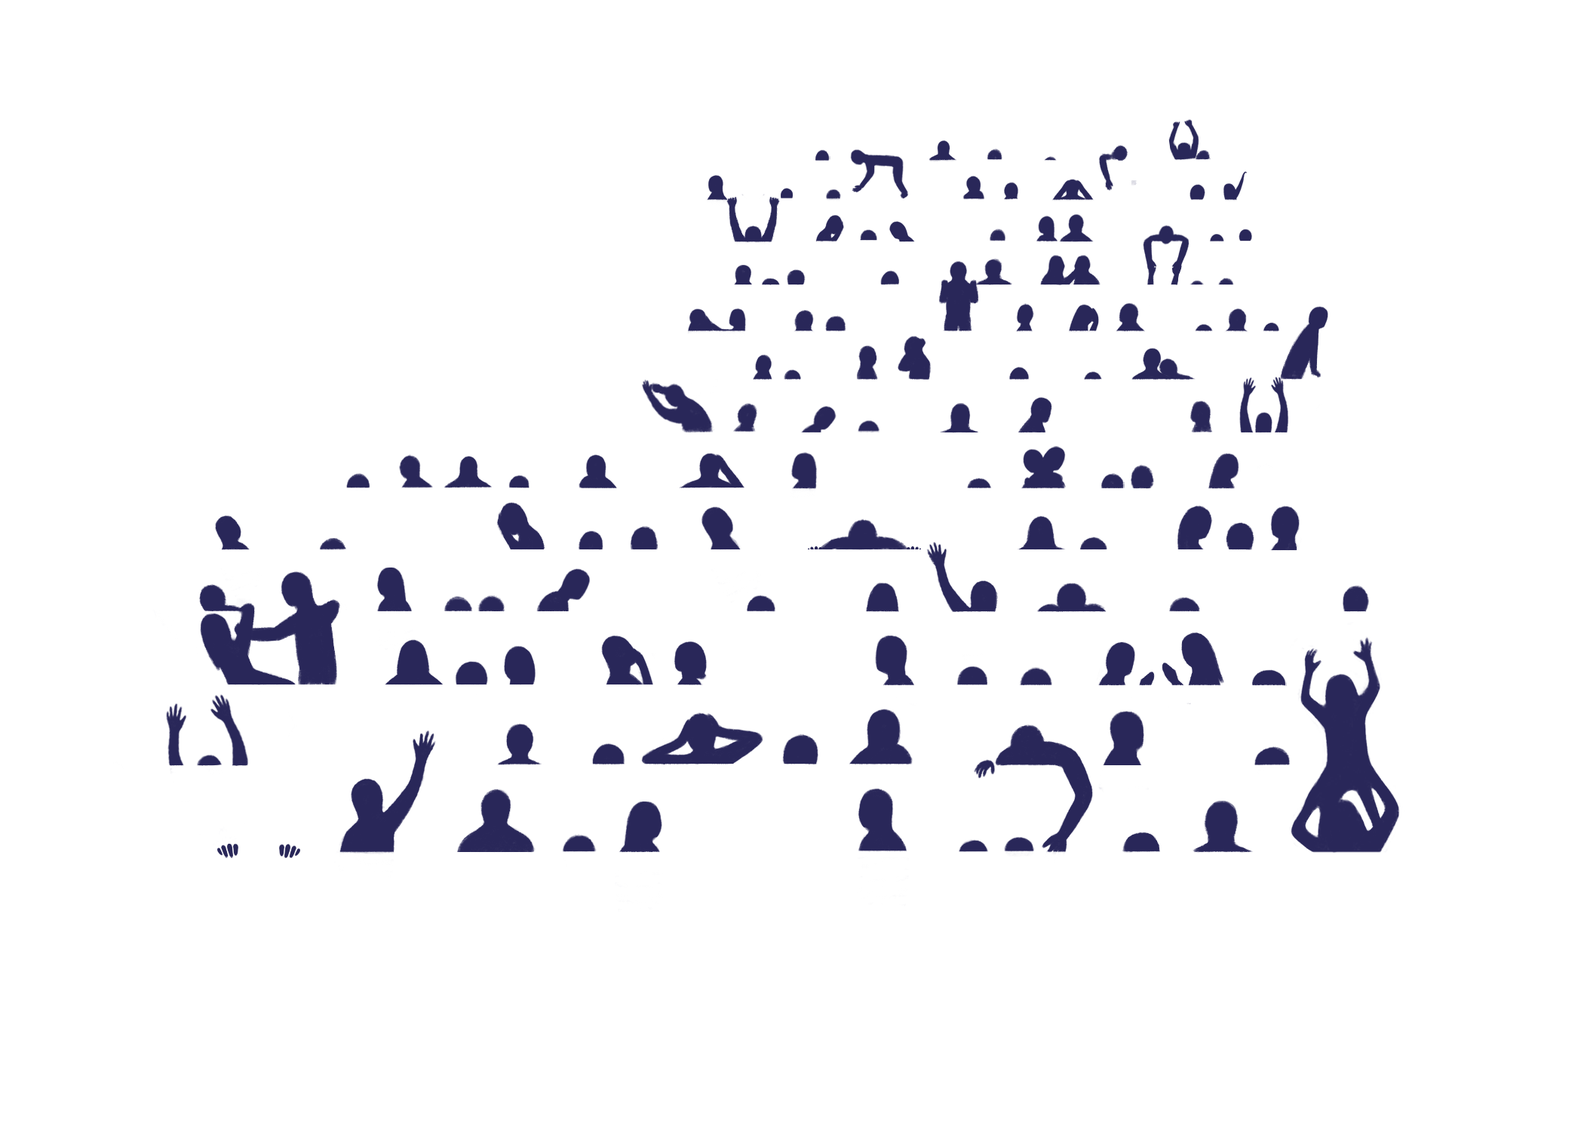
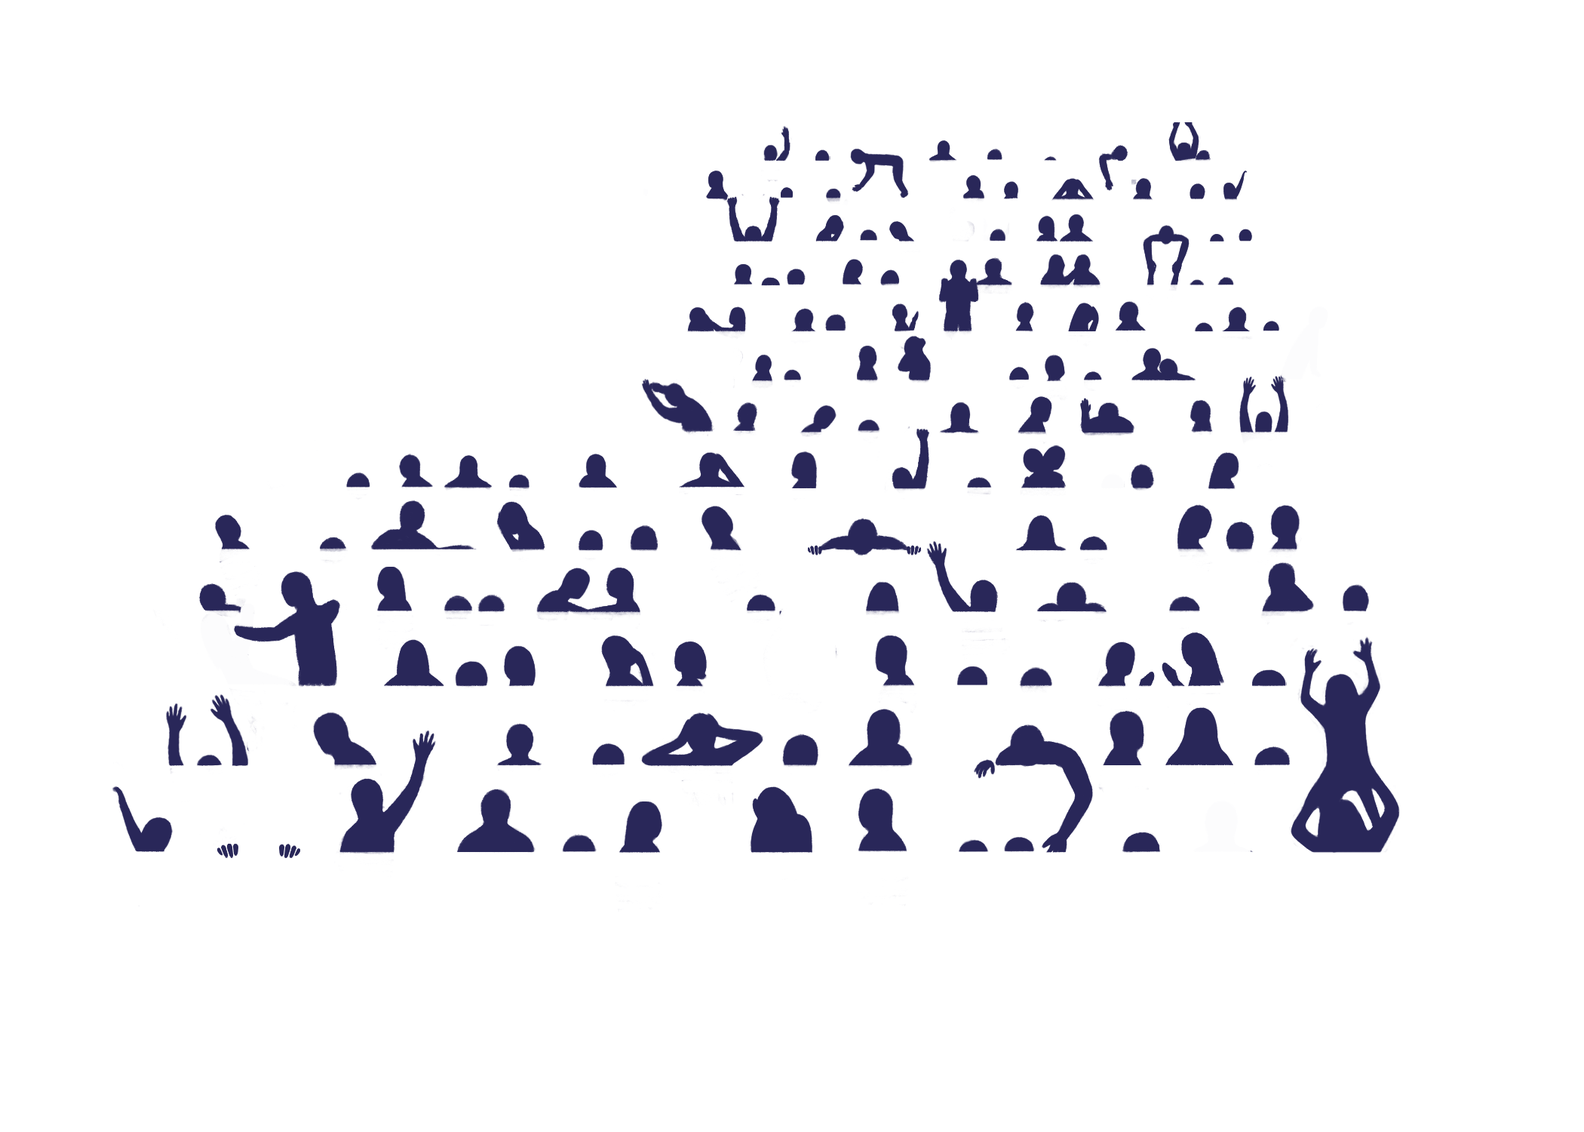
Add Mergensana

diff --git a/src/Fourth.js b/src/Fourth.js
@@ -9,8 +9,23 @@ import KamyarSamimi from "./images/KamyarSamimi.png";
 import FourthArrow from "./images/Fourth-Arrow.png";
 import Row3Person2 from "./images/Row3Person2.png";
 import Row3Person2Red from "./images/Row3Person2-Red.png";
+import Row1Person1 from "./images/Row1Person1.png";
+import Row1Person1Red from "./images/Row1Person1-Red.png";
+import Row3Person1 from "./images/Row3Person1.png";
+import Row3Person1Red from "./images/Row3Person1-Red.png";
+import Row6Person1 from "./images/Row6Person1.png";
+import Row6Person1Red from "./images/Row6Person1-Red.png";
+import Row6Person2 from "./images/Row6Person2.png";
+import Row6Person2Red from "./images/Row6Person2-Red.png";
+import Row8Person2 from "./images/Row8Person2.png";
+import Row8Person2Red from "./images/Row8Person2-Red.png";
+import Row11Person1 from "./images/Row11Person1.png";
+import Row11Person1Red from "./images/Row11Person1-Red.png";
 import JohanaMedinaLeon from "./images/JohanaMedinaLeon.png";
-
+import MergensanaAmar from "./images/MergensanaAmar.png";
+import NebaneAbienwi from "./images/NebaneAbienwi.png";
+import MariaRamirez from "./images/MariaRamirez.png";
+import EfrainDeLaRosa from "./images/EfrainDeLaRosa.png";
 
 export default class Fourth extends Component {
   constructor(props){
@@ -19,6 +34,7 @@ export default class Fourth extends Component {
       isSceneActive: true,
       showRow8Person1: false,
       showRow3Person2: false,
+      showRow1Person1: false,
       showPersonWrapper: false,
       showRedBackground: null,
       showActionButton: false,
@@ -70,6 +86,16 @@ export default class Fourth extends Component {
     });
   }
 
+  showRow1Person1 = () => {
+    this.setState({
+      showPersonWrapper: true,
+      showRow1Person1: true,
+      showRedBackground: true,
+      showActionButton: true,
+      isDirectionActive: false,
+    });
+  }
+
   showFlag = () => {
     this.setState({
       showPersonWrapper: false,
@@ -106,18 +132,18 @@ render() {
         <div className = "Fourth-Writing">
           <p className = "Fourth-Title" >KAMYAR SAMIMI</p>
           <div className = "Fourth-SubTitle">
-            <p>64 year-old man </p>
+            <p>64-year-old man</p>
             <p>Held in Colorado</p>
             <p>Immigrated from Iran</p>
           </div>
           <div className = "Fourth-Story">
-            <p>Kamyar came to the United States as a student in 1976 and became a Legal Permanent Resident in 1978. In Colorado, he worked as a mechanic while raising three children.</p>
+            <p>Kamyar Samimi came to the United States as a student in 1976 and became a Legal Permanent Resident in 1978. In Colorado, he worked as a mechanic while raising three children.</p>
             <p>On November 17th, 2017, Kamyar was arrested at his home and accused of controlled substance violation.</p>
-            <p>During his intake screening, Kamyar reported that he was taking between 150 - 190mg of methadone daily -- an opioid medication he had been legally taking for 20 years. He expressed he was beginning to experience methadone withdrawal symptoms. Nurses received orders from the physician to house the detainee in medical observation, but the physician did not order monitoring of Kamyar’s withdrawal symptoms with any medical instruments.</p>
-            <p>Kamyar remained in the medical unit for 16 days, and although his conditions indicated a need for withdrawal medication, nurses administered less than half the doses ordered. Moreover, the physician never physically examined Kamyar.</p>
-            <p>Nursing notes and video surveillance footage revealed a severe deterioration in Kamyar’s health. Conditions included but were not limited to: tremors, nausea and vomiting, refusing meals, inability to sit up on a bed or in a wheelchair, and signs of dehydration. In interviews, nurses expressed they believed Kamyar was exaggerating his symptoms and did not see an urgent need to notify the physician of his condition.</p>
-            <p>During the morning of November, as two officers and a nurse attempted to move Kamyar into a wheelchair, he began to seizure. Over the next 6 minutes, the nurse made unsuccessful attempts to contact the physician, while the officers called their Lieutenant, who directed they call 911. Emergency Medical Services arrived on the scene 4 minutes later, and Kamyar stopped breathing on the way to the Emergency Room (ER). The ER staff were unable to resuscitate Kamyar, and he was pronounced dead at 12:02pm.</p>
-            <p>The Aurora Contract Detention Facility, the facility where Kamyar was held, was a for-profit detention center operated by GEO Group Inc. On November 12 2019, The family of Kamyar filed a lawsuit with the ACLU of Colorado against GEO Inc. for the wrongful death of Kamyar Samimi. </p>
+            <p>When entering the Aurora Contract Detention Facility (ACDF), Kamyar reported that he was taking between 150 - 190mg of methadone daily ― an opioid medication he had been legally taking for 20 years. He expressed he was beginning to experience methadone withdrawal symptoms. Nurses received orders from the physician to house Kamyar in medical observation, but the physician did not order monitoring of Kamyar’s withdrawal symptoms with any medical instruments.</p>
+            <p>Kamyar remained in the medical unit for 16 days, and although his conditions indicated a need for withdrawal medication, nurses administered less than half the doses ordered. Additionally, the physician never physically examined Kamyar.</p>
+            <p>Nursing notes and video surveillance footage revealed a severe deterioration in Kamyar’s health. Conditions included but were not limited to: tremors, nausea, vomiting, refusing meals, inability to sit upon a bed or in a wheelchair, and signs of dehydration. In interviews, nurses expressed they believed Kamyar was exaggerating his symptoms and did not see an urgent need to notify the physician.</p>
+            <p>During the morning of December 2nd, as two officers and a nurse attempted to move Kamyar into a wheelchair, he began to seizure. Over the next 6 minutes, the nurse made unsuccessful attempts to contact the physician, while the officers called their Lieutenant, who directed they call 911. Emergency Medical Services arrived on the scene, and Kamyar stopped breathing on the way to the Emergency Room (ER). The ER staff were unable to resuscitate Kamyar, and he was pronounced dead at 12:02 p.m.</p>
+            <p>The ACDF was a for-profit detention center operated by GEO Group Inc. On November 12th, 2019, The family of Kamyar filed a <a target = "_blank" href ="https://aclu-co.org/aclu-of-colorado-sues-geo-for-the-wrongful-death-of-kamyar-samimi/">lawsuit</a> with the ACLU of Colorado against <a target = "_blank" href = "https://www.coloradoindependent.com/2019/08/15/geo-group-aurora-immigrant-detention-center/">GEO Inc.</a> for the wrongful death of Kamyar Samimi.</p>
           </div>
           </div>
           </div> : null}
@@ -129,19 +155,47 @@ render() {
             <div className = "Fourth-Writing">
               <p className = "Fourth-Title" >JOHANA MEDINA LEON</p>
               <div className = "Fourth-SubTitle">
-                <p>25 year-old transgender woman</p>
+                <p>25-year-old transgender woman</p>
                 <p>Held in New Mexico</p>
                 <p>Immigrated from El Salvador</p>
               </div>
               <div className = "Fourth-Story">
-                <p>Johana Media Leon was a certified nurse in El Salvador, but was not able to openly practice because she was living openly as a transgender woman. She immigrated to the United States seeking asylum, and legally entered through a port of entry.</p>
-                <p>On April 11th, 2019, Johana entered the U.S through Paso Del Norte Port of Entry in El Paso, New Mexico and was transferred to Otero County Processing Center, a private detention facility for ICE detainees. Despite identifying as a woman at the port of entry, Johana was sent to an all-male facility.</p>
+                <p>Johana Medina Leon was a certified nurse in El Salvador. However, she was not able to practice because she was living openly as a <a target = "_blank" href = "https://www.themujerista.com/the-blog/transgender-woman-and-asylum-seeker-johana-medina-leon">transgender woman.</a> She immigrated to the United States seeking asylum, and legally entered through a port of entry.</p>
+                <p>After entering on April 11th, 2019, through the U.S through Paso Del Norte Port of Entry in El Paso, New Mexico, Johana was transferred to Otero County Processing Center, a private detention facility for Immigration Customs Enforcement (ICE) detainees. Despite identifying as a woman at the port of entry, Johana was sent to an all-male facility.</p>
                 <p>In the coming weeks, her health declined. Johana told staff at the Otero County Processing Center she needed an IV solution. She explained she could do it herself, but just needed the medication. Johana asked for water, sugar and salt so she could make her own IV; her requests were repeatedly denied.</p>
-                <p>In phone calls with her sister, Johana expressed that she wished to be deported to El Salvador so she could receive medical attention.</p>
-                <p>On May 18th, Johana finally received her credible fear interview and passed. She was ordered to appear before a judge on May 22nd - the first step in the asylum process.</p>
-                <p>However, on May 28th, Johana became even more ill with severe chest pain and eventually became unconscious. She was transferred to Del Sol Medical Center in El Paso, Texas, and ICE released her from custody.</p>
-                <p>Four days later, on June 1st, Johana passed away of pneumonia.</p>
-                <p>ICE is required by Congress to report the death of any migrants in its custody within 30 days and release a final report to the public within 60 days. Because Johana was released from ICE custody the same day she was sent to the hospital, her death is not considered in-custody, and a report was never released by ICE.</p>
+                <p>In the coming weeks, she became <a target = "_blank" href = "https://rewire.news/article/2019/06/06/the-details-of-johana-medinas-detainment-and-death-matter/">severely ill.</a> Johana told the staff at the Otero County Processing Center she needed an IV solution. She explained she could do it herself, but just needed the medication. Johana asked for water, sugar, and salt so she could make her own IV, but her requests were repeatedly denied. In phone calls with her sister, Johana expressed that she wished to be deported to El Salvador so she could receive the medical attention she needed.</p>
+                <p>On May 18th, Johana finally received her credible fear interview and passed. She was ordered to appear before a judge on May 22nd ― the first step in the asylum process.</p>
+                <p>However, on May 28th, Johana experienced severe chest pain and eventually became unconscious. She was transferred to Del Sol Medical Center in El Paso, Texas, and ICE released her from custody.</p>
+                <p>Four days later, on June 1st, Johana passed away from pneumonia.</p>
+                <p>ICE is required by Congress to report the death of any migrants in its custody within 30 days and release a final report to the public within 60 days. Because Johana was released from ICE custody the same day she was sent to the hospital, her death is not considered in-custody; a report was never released by ICE.</p>
+              </div>
+              </div>
+              </div> : null}
+
+          {this.state.showRow1Person1 ?
+            <div className = "Fourth-Person">
+            <img className = "Fourth-Portrait" src = {MergensanaAmar}/>
+            <div className = "Fourth-Writing">
+              <p className = "Fourth-Title" >MERGENSANA AMAR</p>
+              <div className = "Fourth-SubTitle">
+                <p>40-year-old man</p>
+                <p>Held in Washington</p>
+                <p>Immigrated from Buryatia</p>
+              </div>
+              <div className = "Fourth-Story">
+                <p>Mergensana Amar immigrated from Buryatia, a Russian republic in Siberia, just north of Mongolia. He arrived in the United States on December 5th, 2017. Seeking asylum, Mergensana turned himself in at San Ysidro Port of Entry in California to begin the asylum process.</p>
+                <p>On December 19th, Mergensana was transferred to the Northwest Detention Center in Tacoma, Washington, and he stayed in this facility awaiting immigration proceedings for the following 9 months.</p>
+                <p>9 months later ― around August 22nd, 2018 ― Mergensana began a hunger strike. During a medical examination, he explained he had “no intentions of eating” and that he would be protesting the length of time it took for the immigration courts to make a decision about his case.</p>
+                <p>After missing 9 consecutive meals, Mergensana was admitted to the medical housing unit (MHU) for the hunger strike protocol. According to the mental status exam, Mergensana’s mental status was stable; he appeared goal-oriented and showed no signs of hallucinations. While he complained of body pain, he refused all pain medication and laboratory tests.</p>
+                <p>Mergensana later <a target = "_blank" href = "https://crosscut.com/2018/11/ice-says-asylum-seeker-life-support">disclosed</a> to a reporter that when he had refused laboratory tests, “heavily armored people, with helmets and shields, came and surrounded him”.  They told him if he did not resume eating voluntarily, they would begin force-feeding him through a tube.</p>
+                <p>Following these threats, Mergensana began to eat on October 16th. Though Mergensana requested to stay in solitary confinement, he was discharged to the general population. 10 days later, he was returned to the MHU after staff found a “long hand-made rope made of bedding” hidden in his cell ― a possible suicidal gesture.</p>
+                <p>From October 28th to October 31st, Mergensana refused to answer questions or allow medical assessments. Consequently, the behavioral health provider implemented ten-minute irregular CO checks.</p>
+                <p>From November 1st to the 4th, Mergensana refused to engage with behavioral staff, with notes describing Mergensana “hiding” or pulling the blanket over his head. The behavioral health provider considered Mergensana a “low-risk” for suicide.</p>
+                <p>On November 11th, a CO had documented that Mergensana had missed a total of 46 meals since the beginning of his hunger strike.</p>
+                <p>The next day, Mergensana began eating 100% of his meals and requested to return to the general population. He was returned to the general population.</p>
+                <p>Three days later, on November 15th, Mergensana was hanging from a self-made ligature around his neck. He was transported to the local hospital and admitted to the intensive care unit (ICU) for an anoxic brain injury; tests conducted in the ICU later confirmed brain death.</p>
+                <p>On November 24th, 2018, the hospital removed Mergensana from life support. He passed away at 6:05 p.m.</p>
+                <p>In previous <a target = "_blank" href = "https://crosscut.com/2019/06/asylum-seeker-vowed-never-return-russia-his-death-ice-custody-sent-him-back">conversations</a> with reporters, Mergensana expressed how he feared to return to Russia. There, Russian skinheads had beaten and threatened him. Moreover, he described having been imprisoned for demonstrating for the independence of Buryatia, which has been under Russian rule since the 17th century.</p>
               </div>
               </div>
               </div> : null}
@@ -164,12 +218,19 @@ render() {
       <img className= "Fourth-FlagLarge" src = {FourthFlagLarge}/>
       <img className= "Fourth-FlagSmall" src = {FourthFlagSmall}/>
       <div className = 'Fourth-Background'></div>
+
       <img className = "Fourth-Row8Person1" src = {Row8Person1}
           onClick={this.showRow8Person1.bind(this)}/>
       <img className = "Fourth-Row8Person1-Red" src = {Row8Person1Red}/>
+
       <img className = "Fourth-Row3Person2" src = {Row3Person2}
           onClick={this.showRow3Person2.bind(this)}/>
       <img className = "Fourth-Row3Person2-Red" src = {Row3Person2Red}/>
+
+      <img className = "Fourth-Row1Person1" src = {Row1Person1}
+          onClick={this.showRow1Person1.bind(this)}/>
+      <img className = "Fourth-Row1Person1-Red" src = {Row1Person1Red}/>
+
       {this.state.showActionContent ? <div onClick={this.showActionContent.bind(this)} className = "Fourth-ActionContent">
       <p>This project was made with the support of <a href = "https://www.detentionwatchnetwork.org/" target = "_blank"> Detention Watch Network, </a> a national coalition dedicated to abolishing immigration detention in the United States. To help strengthen their work and contribute to the mission of ending immigration detention, please consider making a donation.</p>
       <a target = "_blank" href ="https://detentionwatchnetwork.z2systems.com/np/clients/detentionwatchnetwork/donation.jsp?campaign=25&&test=true"><button>HELP NOW</button></a>

diff --git a/src/sass/newmain.css b/src/sass/newmain.css
@@ -1775,6 +1775,33 @@ a {
 }
 
 @media (min-width: 0) {
+  .Fourth-Row1Person1 {
+    position: absolute;
+    z-index: 5;
+    height: 4.5%;
+    width: auto;
+    top: 70.8%;
+    left: 73%;
+  }
+  .Fourth-Row1Person1:hover {
+    animation: none;
+    opacity: 0.5;
+    cursor: pointer;
+  }
+}
+
+@media (min-width: 0) {
+  .Fourth-Row1Person1-Red {
+    position: absolute;
+    z-index: 4;
+    height: 4.5%;
+    width: auto;
+    top: 70.8%;
+    left: 73%;
+  }
+}
+
+@media (min-width: 0) {
   .Fourth-ActionDiv {
     height: 100vh;
     width: 100vw;
@@ -1966,7 +1993,7 @@ a {
   }
 }
 
-.Fourth-People, .Fourth-Row8Person1-Red, .Fourth-Row3Person2-Red {
+.Fourth-People, .Fourth-Row8Person1-Red, .Fourth-Row3Person2-Red, .Fourth-Row1Person1-Red {
   -webkit-animation: fadePeople 3s;
   -moz-animation: fadePeople 3s;
   -o-animation: fadePeople 3s;
@@ -2006,10 +2033,10 @@ a {
   }
 }
 .Fourth-Row3Person2 {
-  -webkit-animation: fadePeople 3s, personBlink1 ease-in-out infinite 4s;
-  -moz-animation: fadePeople 3s, personBlink1 ease-in-out infinite 4s;
-  -o-animation: fadePeople 3s, personBlink1 ease-in-out infinite 4s;
-  animation: fadePeople 3s, personBlink1 ease-in-out infinite 4s;
+  -webkit-animation: fadePeople 3s, personBlink1 ease-in-out infinite 2s;
+  -moz-animation: fadePeople 3s, personBlink1 ease-in-out infinite 2s;
+  -o-animation: fadePeople 3s, personBlink1 ease-in-out infinite 2s;
+  animation: fadePeople 3s, personBlink1 ease-in-out infinite 2s;
   animation-delay: 0ms, 3s;
 }
 
@@ -2057,11 +2084,11 @@ a {
     opacity: 0.2;
   }
 }
-.Fourth-Row8Person1 {
-  -webkit-animation: fadePeople 3s, personBlink2 ease-in-out infinite 4s;
-  -moz-animation: fadePeople 3s, personBlink2 ease-in-out infinite 4s;
-  -o-animation: fadePeople 3s, personBlink2 ease-in-out infinite 4s;
-  animation: fadePeople 3s, personBlink2 ease-in-out infinite 4s;
+.Fourth-Row8Person1, .Fourth-Row1Person1 {
+  -webkit-animation: fadePeople 3s, personBlink2 ease-in-out infinite 2s;
+  -moz-animation: fadePeople 3s, personBlink2 ease-in-out infinite 2s;
+  -o-animation: fadePeople 3s, personBlink2 ease-in-out infinite 2s;
+  animation: fadePeople 3s, personBlink2 ease-in-out infinite 2s;
   animation-delay: 0ms, 3s;
 }
 

diff --git a/src/sass/_fourth-animation.scss b/src/sass/_fourth-animation.scss
@@ -1,6 +1,6 @@
 
 
-.Fourth-People, .Fourth-Row8Person1-Red, .Fourth-Row3Person2-Red {
+.Fourth-People, .Fourth-Row8Person1-Red, .Fourth-Row3Person2-Red, .Fourth-Row1Person1-Red {
   -webkit-animation: fadePeople 3s;
    -moz-animation: fadePeople 3s;
    -o-animation: fadePeople 3s;
@@ -47,10 +47,10 @@
 
 
 .Fourth-Row3Person2 {
-  -webkit-animation: fadePeople 3s, personBlink1 ease-in-out infinite 4s;
-   -moz-animation: fadePeople 3s, personBlink1 ease-in-out  infinite 4s;
-   -o-animation: fadePeople 3s, personBlink1 ease-in-out  infinite 4s;
-  animation: fadePeople 3s, personBlink1 ease-in-out infinite 4s;
+  -webkit-animation: fadePeople 3s, personBlink1 ease-in-out infinite 2s;
+   -moz-animation: fadePeople 3s, personBlink1 ease-in-out  infinite 2s;
+   -o-animation: fadePeople 3s, personBlink1 ease-in-out  infinite 2s;
+  animation: fadePeople 3s, personBlink1 ease-in-out infinite 2s;
   animation-delay: 0ms, 3s;
 }
 
@@ -103,11 +103,11 @@
 }
 
 
-.Fourth-Row8Person1 {
-  -webkit-animation: fadePeople 3s, personBlink2 ease-in-out infinite 4s;
-   -moz-animation: fadePeople 3s, personBlink2 ease-in-out  infinite 4s;
-   -o-animation: fadePeople 3s, personBlink2 ease-in-out  infinite 4s;
-  animation: fadePeople 3s, personBlink2 ease-in-out infinite 4s;
+.Fourth-Row8Person1, .Fourth-Row1Person1 {
+  -webkit-animation: fadePeople 3s, personBlink2 ease-in-out infinite 2s;
+   -moz-animation: fadePeople 3s, personBlink2 ease-in-out  infinite 2s;
+   -o-animation: fadePeople 3s, personBlink2 ease-in-out  infinite 2s;
+  animation: fadePeople 3s, personBlink2 ease-in-out infinite 2s;
   animation-delay: 0ms, 3s;
 }
 

diff --git a/public/index.html b/public/index.html
@@ -48,7 +48,9 @@
 
     <!-- The core Firebase JS SDK is always required and must be listed first -->
     <script src="https://www.gstatic.com/firebasejs/7.14.5/firebase-app.js"></script>
-
+    <script src="https://www.gstatic.com/firebasejs/7.14.5/firebase-database.js"></script>
+    <script src="https://www.gstatic.com/firebasejs/7.14.5/firebase-auth.js"></script>
+    <script src="https://www.gstatic.com/firebasejs/7.14.5/firebase-storage.js"></script>
     <!-- TODO: Add SDKs for Firebase products that you want to use
          https://firebase.google.com/docs/web/setup#available-libraries -->
     <script src="https://www.gstatic.com/firebasejs/7.14.5/firebase-analytics.js"></script>

diff --git a/src/sass/_fourth-layout.scss b/src/sass/_fourth-layout.scss
@@ -287,6 +287,37 @@
   }
 }
 
+
+.Fourth-Row1Person1 {
+  @include sm {
+    position: absolute;
+    z-index: 5;
+    height: 4.5%;
+    width: auto;
+    top: 70.8%;
+    left: 73%;
+    &:hover {
+      animation: none;
+      opacity: .5;
+      cursor: pointer;
+    }
+  }
+}
+
+
+.Fourth-Row1Person1-Red {
+  @include sm {
+    position: absolute;
+    z-index: 4;
+    height: 4.5%;
+    width: auto;
+    top: 70.8%;
+    left: 73%;
+  }
+}
+
+//-----------------------------------------------
+
 .Fourth-ActionDiv {
   @include sm {
     height: 100vh;

diff --git a/src/App.js b/src/App.js
@@ -16,7 +16,7 @@ class App extends Component {
   constructor(props){
     super(props);
     this.state = {
-      activeScene: 'second',
+      activeScene: 'fourth',
       isFullscreen: false,
       showCheckbox: true,
     };

diff --git a/src/index.js b/src/index.js
@@ -4,6 +4,7 @@ import './index.css';
 import App from './App';
 import * as serviceWorker from './serviceWorker';
 
+
 ReactDOM.render(
   <React.StrictMode>
     <App />
